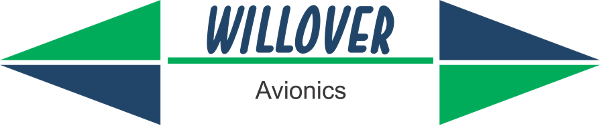
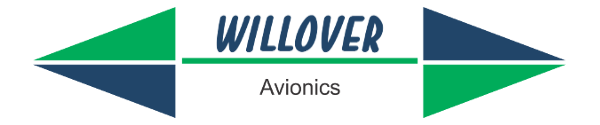
graphics changes

Changed region(s): [[0.0, 0.0, 1.0, 1.0], [0.33, 0.024, 0.66, 0.432], [0.42, 0.624, 0.6, 0.792]]

diff --git a/css/main.css b/css/main.css
@@ -1,10 +1,14 @@
 
 
 body {
-border-top: 15px solid #002f6c;
+  border-top: 15px solid #002f6c;
 
-  background-color: #E1E2E1;
+  background-image: url("../assets/img/hangar.png");
+  background-attachment: fixed;
+  background-size: 100%;
+  background-repeat: no-repeat;
 
+  background-color: #ccc;
   display: flex;
   min-height: 100vh;
   flex-direction: column;
@@ -18,11 +22,12 @@ border-top: 15px solid #002f6c;
 
 .wrap {
    flex: 1 0 auto;
+
  }
 
 hr {
-  border-top: 1px solid #ccc;
-  border-bottom: 1px solid #fff;
+  border-top: 0.5px solid #ccc;
+  border-bottom: 0.5px solid #333333;
 }
 .page-footer {
   background-color: #002f6c;

diff --git a/_includes/home.html b/_includes/home.html
@@ -1,6 +1,6 @@
 
 <div class="logo">
-      <img style="display: block; margin-left: auto; margin-right: auto;" src="assets/img/logo.png" alt="" width="209" height="149">
+      <img style="display: block; margin-left: auto; margin-right: auto;" src="assets/img/logo.png" alt="" width="209" height="209">
 </div>
 
 <hr>
